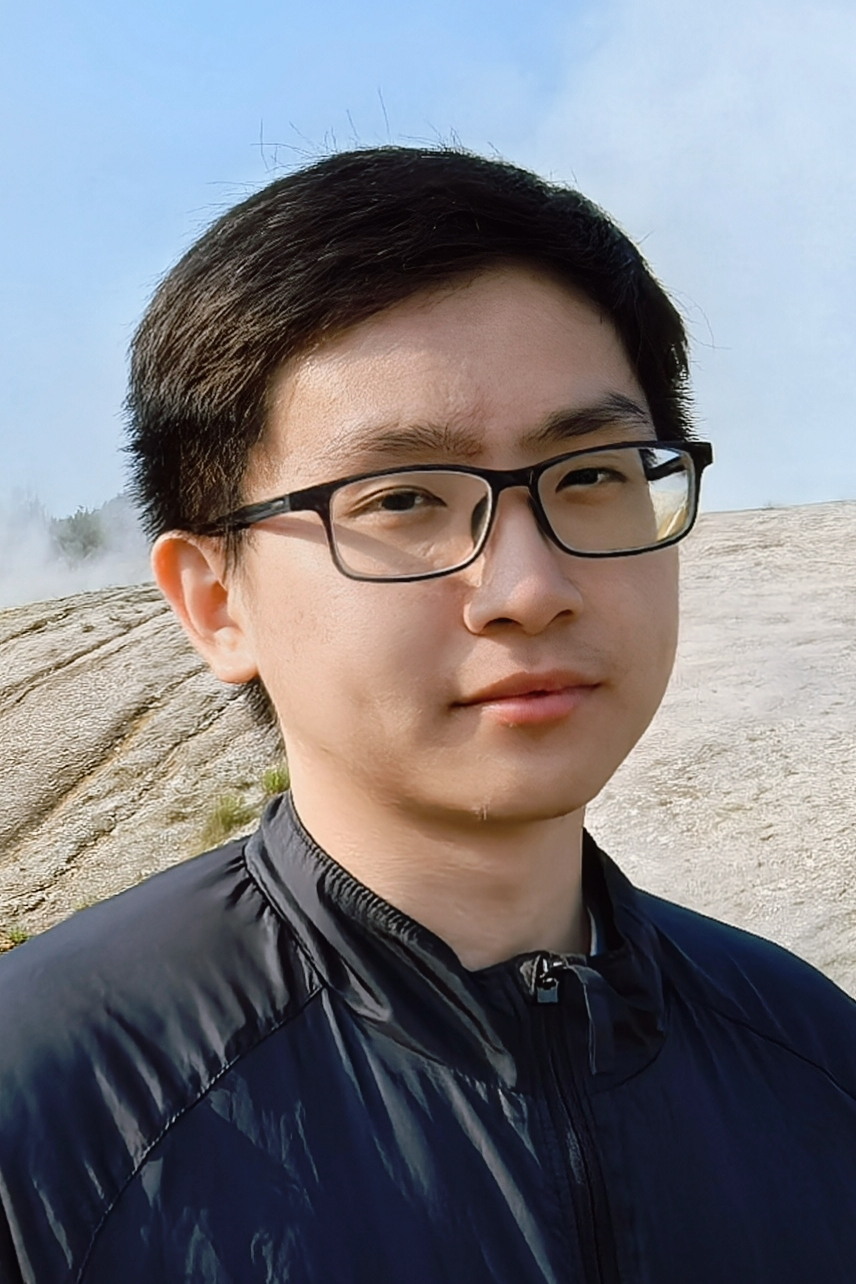
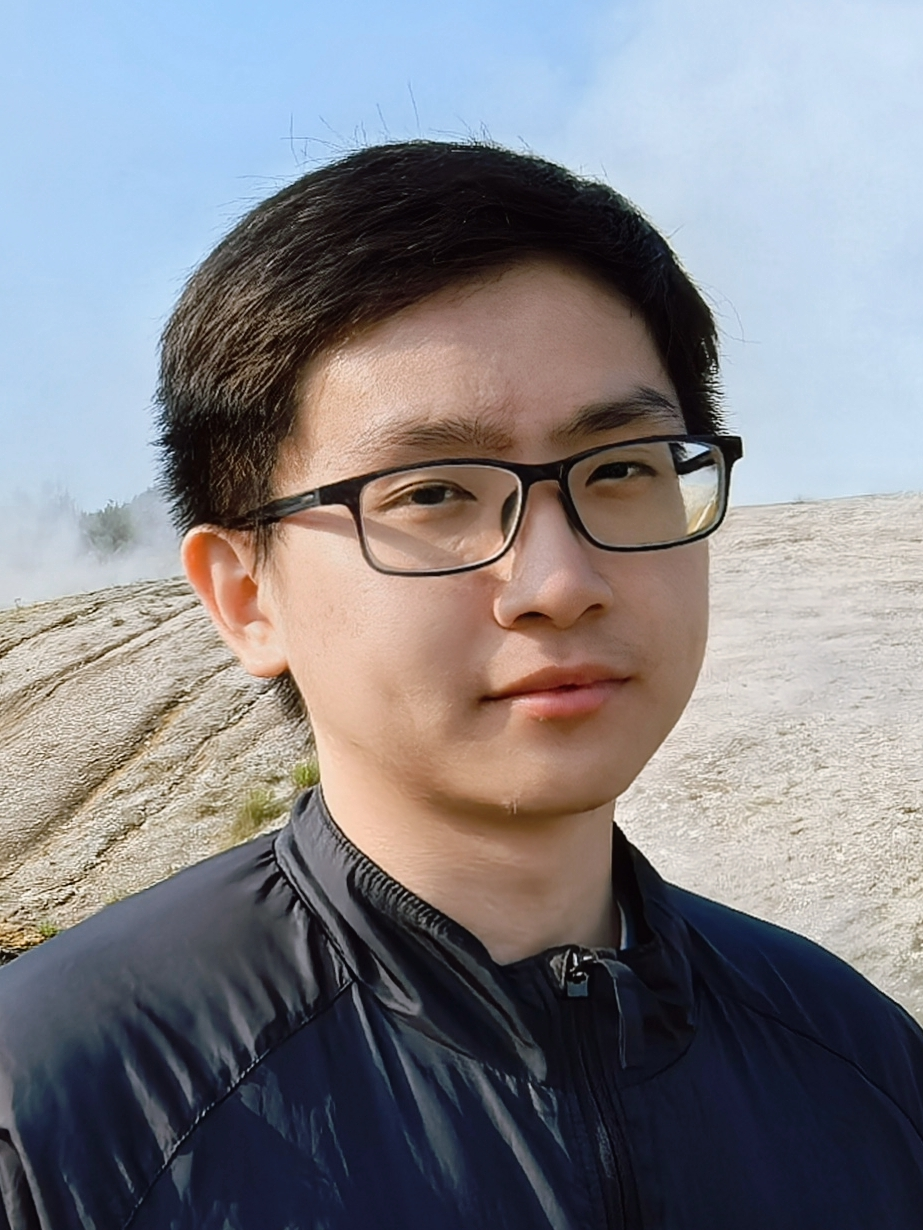
update photo size

diff --git a/index.html b/index.html
@@ -38,7 +38,7 @@
         <img border=0 Vspace=5 Hspace=0
         src="images/me.JPG"
         alt="Yicong"
-        width="221" height="289">
+        width="221">
         <br><br>
 
         <p>
